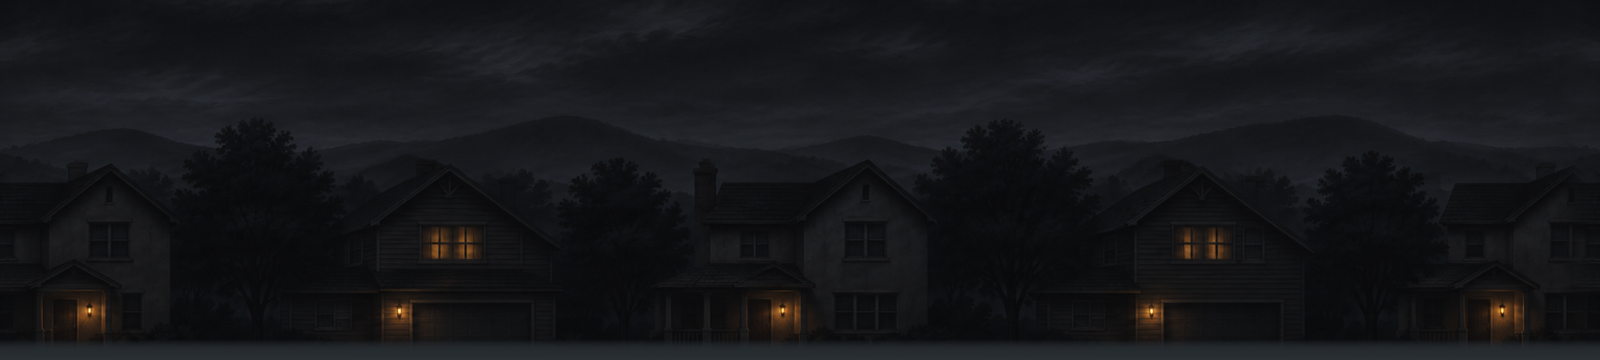
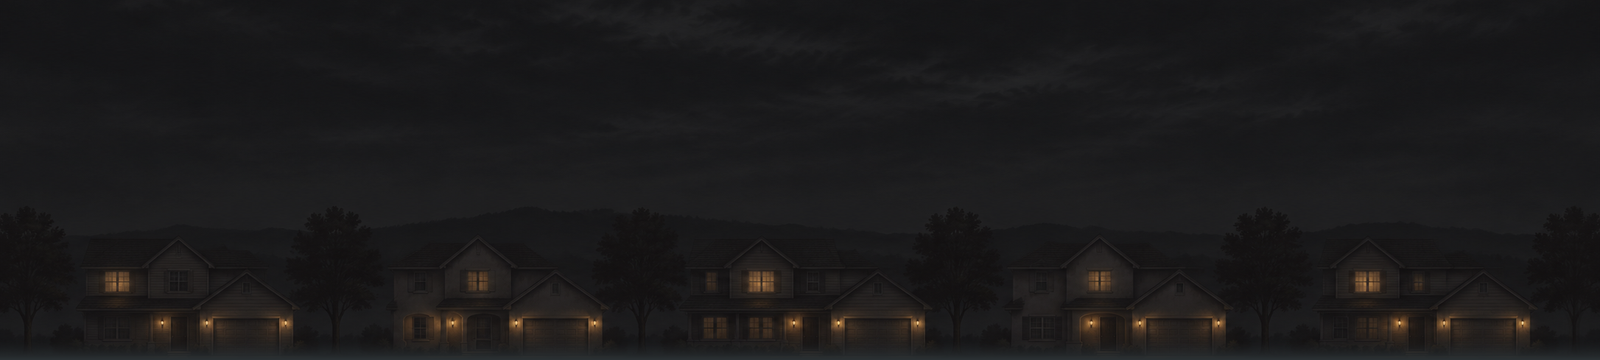
feat: update new ai suburb background

diff --git a/src/objects/Scenery.js b/src/objects/Scenery.js
@@ -26,7 +26,7 @@ export const SCENERY_THEMES = {
     // suburb backdrop over its own procedural asphalt road (tools/gen-suburb-road.py)
     road: { key: 'road-suburb', file: 'assets/bg/road-suburb.png' },
     scenery: { key: 'scenery-suburb', file: 'assets/bg/scenery-suburb.png' },
-    sky: 0x121316,
+    sky: 0x171718,
     ground: 0x363e42,
   },
 };

diff --git a/docs/image-assets.md b/docs/image-assets.md
@@ -360,7 +360,7 @@ The active `suburb` theme pairs its own procedural road, `road-suburb.png`
 `codex exec -i style.png colour.png mood.png < prompt.txt` (pass the prompt on
 stdin, since `-i` takes several files and would swallow a trailing prompt
 argument). It was prepped with
-`prep-scenery-image.py scenery shot.png --offset 200 --horizon 0x2a3033`,
+`prep-scenery-image.py scenery shot.png --offset 118 --horizon 0x2a3033`,
 where `--offset` keeps the houses on the horizon and `--horizon` fades the bottom
 rows into the suburb road's top row (re-run with the new hex after
 regenerating the road, `--blend 0 --out` on the shipped PNG). The background's Suburb `[SCENE]` block
